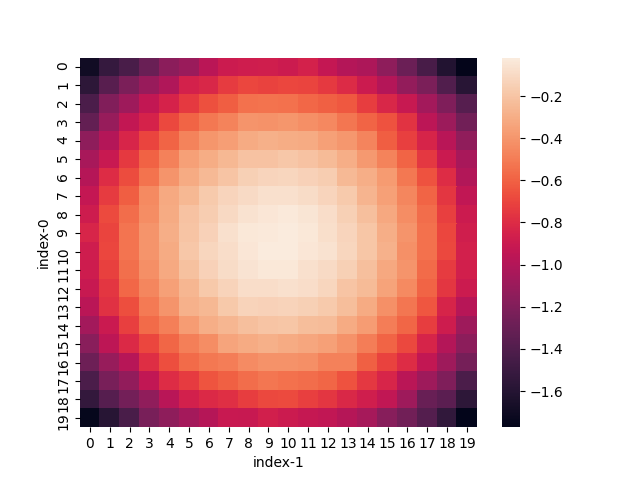
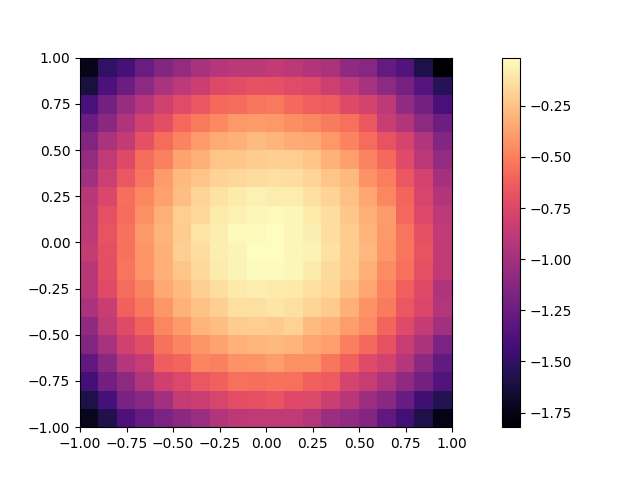
Usage and intro

diff --git a/README.md b/README.md
@@ -14,9 +14,24 @@ redesign of MAP-Elites (CMA-ME) detailed in the paper
 
 ![Types of Optimization](readme_assets/optimization_types.png)
 
-Quality-diversity (QD) optimization is a subfield of optimization where solutions generated cover every point in a behavior space while simultaneously maximizing (or minimizing) a single objective. QD algorithms within the MAP-Elites family of QD algorithms produce heatmaps as output where each cell contains the best discovered representative of a region in behavior space.
+Quality-diversity (QD) optimization is a subfield of optimization where
+solutions generated cover every point in a behavior space while simultaneously
+maximizing (or minimizing) a single objective. QD algorithms within the
+MAP-Elites family of QD algorithms produce heatmaps (archives) as output where
+each cell contains the best discovered representative of a region in behavior
+space.
 
-While many QD libraries exist, this particular library aims to be the QD analog to the [pycma](https://pypi.org/project/cma/) library (a single objective optimization library). In contrast to other libraries, this library is "bare-bones" and (like [pycma](https://pypi.org/project/cma/)) focuses solely on optimizing fixed dimensional continuous domains. Focusing solely on this one commonly occuring problem allows us to optimize the library for performance as well as simplicity of use. QD algorithms are used extensively in neuroevolution research and application. If you are looking for a QD library which implements augmenting topologies or other complex operations beyond the scope of this library, we recommend checking out [qdpy](https://gitlab.com/leo.cazenille/qdpy/) or [sferes](https://github.com/sferes2/sferes2).
+While many QD libraries exist, this particular library aims to be the QD analog
+to the [pycma](https://pypi.org/project/cma/) library (a single objective
+optimization library). In contrast to other libraries, this library is
+"bare-bones" and (like [pycma](https://pypi.org/project/cma/)) focuses solely on
+optimizing fixed dimensional continuous domains. Focusing solely on this one
+commonly occurring problem allows us to optimize the library for performance as
+well as simplicity of use. QD algorithms are used extensively in neuroevolution
+research and applications. For a QD library which implements augmenting
+topologies or other complex operations beyond the scope of this library, we
+recommend referring to [qdpy](https://gitlab.com/leo.cazenille/qdpy/) or
+[sferes](https://github.com/sferes2/sferes2).
 
 TODO
 
@@ -46,6 +61,7 @@ for 1000 iterations. For simplicity, the BCs are the first two entries of each
 
 ```python
 import numpy as np
+
 from ribs.archives import GridArchive
 from ribs.emitters import GaussianEmitter
 from ribs.optimizers import Optimizer
@@ -58,18 +74,20 @@ for itr in range(1000):
     solutions = optimizer.ask()
 
     objectives = -np.sum(np.square(solutions), axis=1)
-    bcs = solutions[:,:2]
+    bcs = solutions[:, :2]
 
     optimizer.tell(objectives, bcs)
 ```
 
-To visualize this archive, we can then use Seaborn's `heatmap` like so:
+To visualize this archive with matplotlib, we can then use the
+`grid_archive_heatmap` function from `ribs.visualize`.
 
 ```python
-import seaborn as sns
+import matplotlib.pyplot as plt
+from ribs.visualize import grid_archive_heatmap
 
-data = archive.as_pandas().pivot('index-0', 'index-1', 'objective')
-sns.heatmap(data)
+grid_archive_heatmap(archive)
+plt.show()
 ```
 
 ![Sphere heatmap](readme_assets/sphere_heatmap.png)
